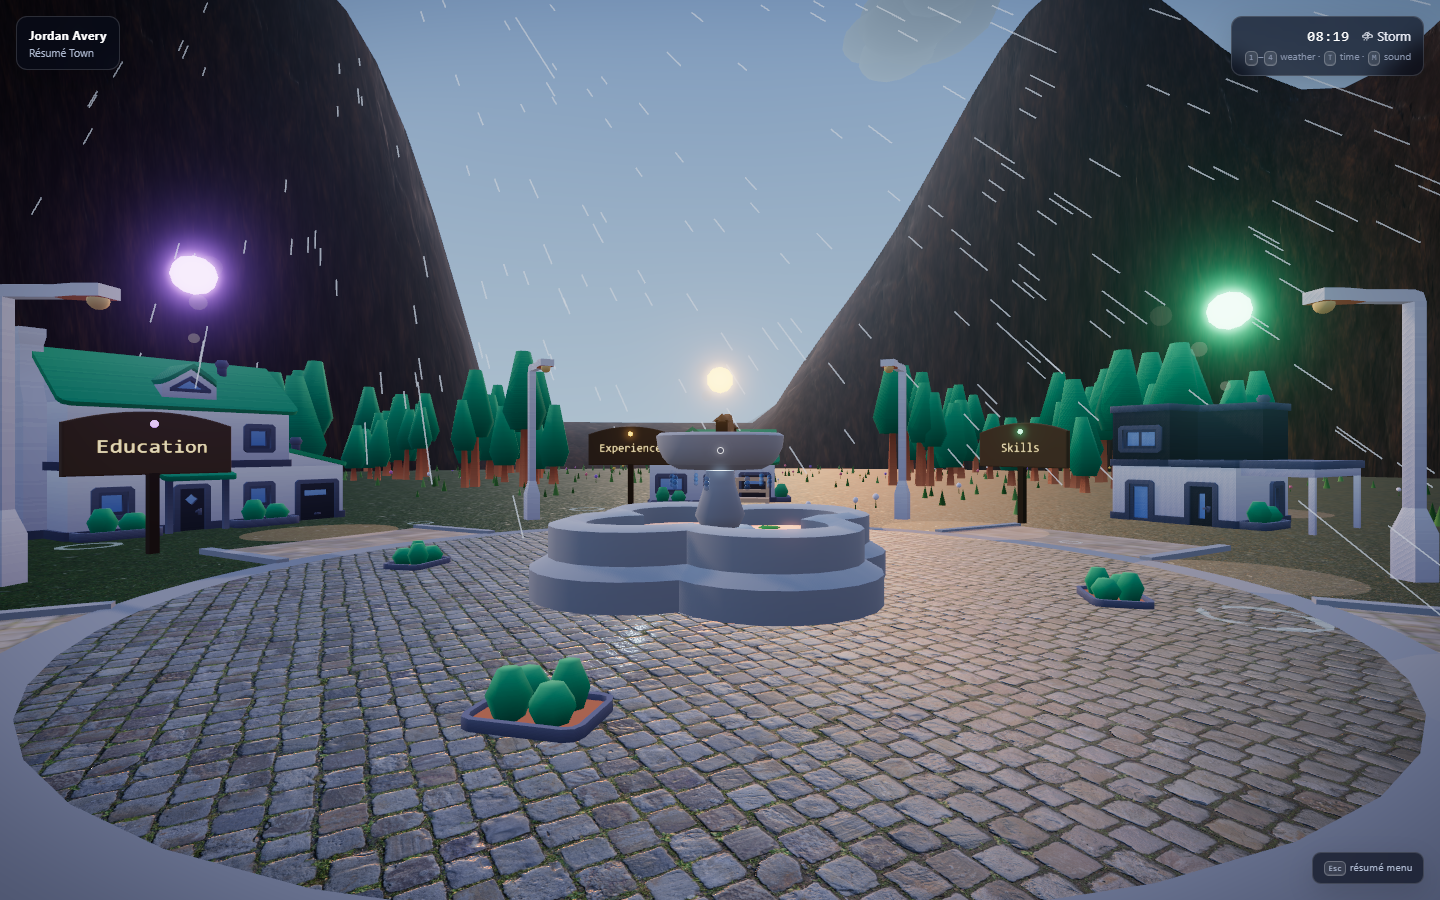
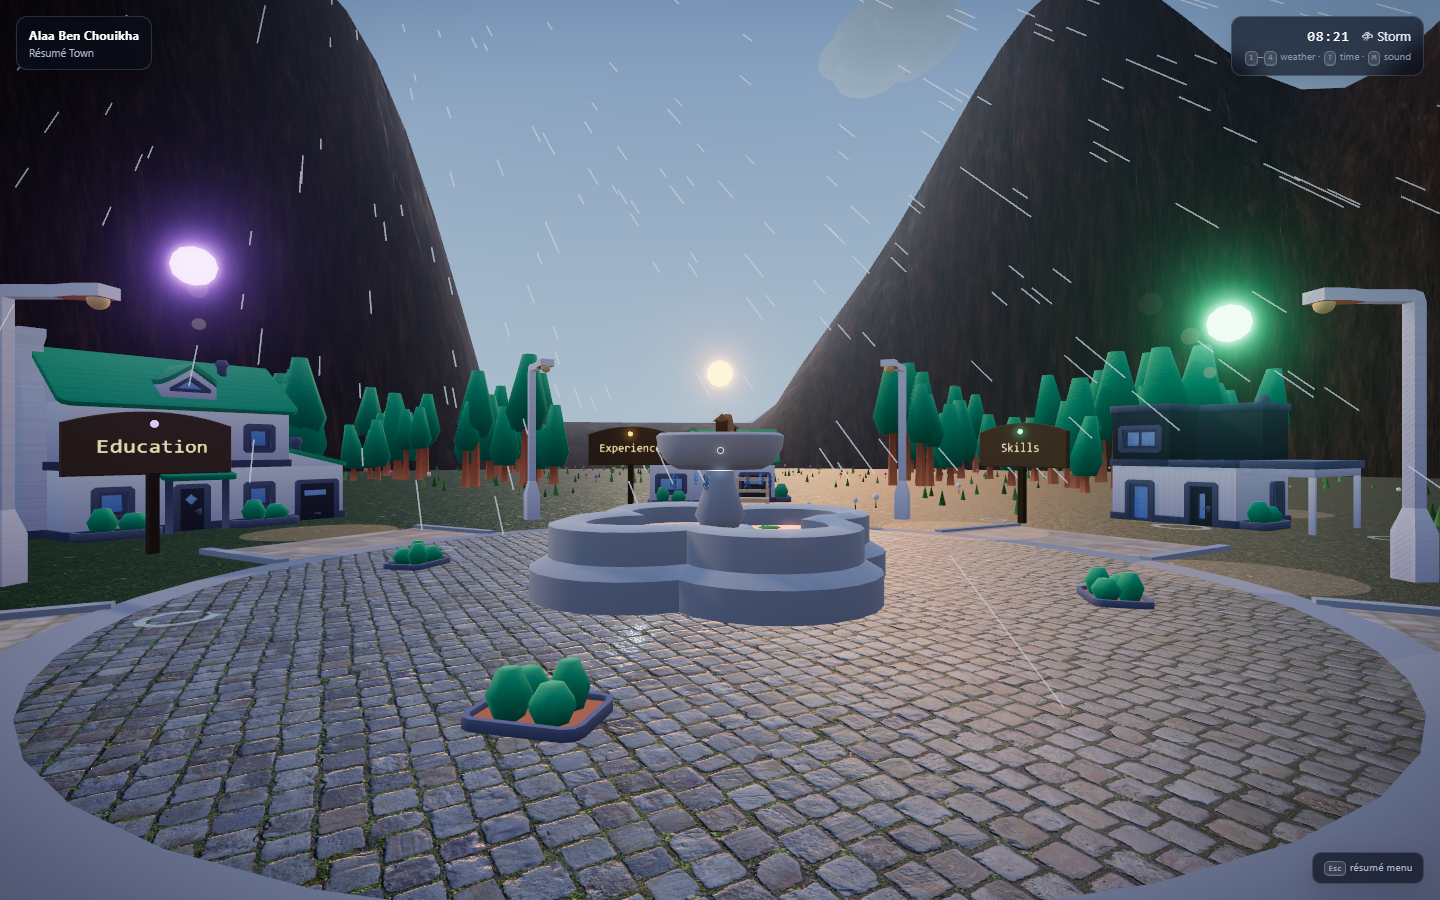
Phase 7: real résumé content (Alaa Ben Chouikha)
Replace the fictional Jordan Avery demo in src/content.ts with real data:
About, Education (FST + Baccalaureate + Certifications), Experience (SMI,
Tunisair, Dione Protocol, Smart Team), Skills (Java/Spring/Oracle, AI,
networking), Projects (Huda AI, AI Maze, Lung Disease, Ecology Sim), Contact.
Realign interactive furniture labels to the new entries; update the verify
harness assertions and the README. (Town name still placeholder 'Alaaville'.)

diff --git a/src/content.ts b/src/content.ts
@@ -38,10 +38,10 @@ export interface DecorItemDef {
   noCollide?: boolean;
 }
 
-export const PLAYER_NAME = "Jordan Avery";
-export const PLAYER_ROLE = "Full-Stack Developer";
-export const TOWN_NAME = `${PLAYER_NAME.split(" ")[0]}ville`;
-export const PROFILE_NOTE = "Interactive demo profile";
+export const PLAYER_NAME = "Alaa Ben Chouikha";
+export const PLAYER_ROLE = "Software Developer";
+export const TOWN_NAME = "Alaaville"; // TODO: swap for the custom town name once chosen
+export const PROFILE_NOTE = "Software Developer @ SMI · Creator of Huda AI";
 export const WORLD_FONT = "/fonts/kenpixel.ttf";
 
 export const buildings: BuildingDef[] = [
@@ -104,9 +104,9 @@ export const buildings: BuildingDef[] = [
 export const aboutContent = {
   heading: "About Me",
   paragraphs: [
-    `Hi, I'm ${PLAYER_NAME} — a ${PLAYER_ROLE.toLowerCase()} who loves turning complex problems into clean, playful experiences.`,
-    "I build thoughtful web products across the stack, from resilient APIs and data models to expressive, accessible interfaces.",
-    "I care about systems that are easy to understand, products that feel good to use, and teams that leave codebases better than they found them.",
+    `Hi, I'm ${PLAYER_NAME} — a software developer at SMI (Société Le Monde Informatique) in Tunis, and the creator of Huda AI, an Islamic AI-powered Q&A platform.`,
+    "By day I build business-oriented banking solutions with Java, Spring Boot, Oracle and microservices; by night I build AI and full-stack projects with React, Angular, Node.js, TensorFlow and PyTorch.",
+    "I care about clean, scalable systems, practical applications that solve real problems, and software that's genuinely a pleasure to use.",
   ],
 };
 
@@ -114,16 +114,23 @@ export const educationContent = {
   heading: "Education",
   entries: [
     {
-      school: "Northbridge University",
-      degree: "B.Sc. in Computer Science",
-      period: "2016 — 2020",
-      details: "Focused on distributed systems, human-computer interaction, and practical software engineering.",
+      school: "Faculty of Sciences of Tunis (FST)",
+      degree: "Bachelor's in Information & Communication Technology",
+      period: "2022 — 2024",
+      details: "ICT fundamentals across software engineering, databases, networks and systems.",
     },
     {
-      school: "Cloud Guild",
-      degree: "Professional Certificate in Cloud Architecture",
-      period: "2021",
-      details: "Designed secure, observable cloud systems with an emphasis on reliability and sensible cost controls.",
+      school: "Lycée Pilote Radhiâ Haddad, El Omrane",
+      degree: "Baccalaureate in Computer Science",
+      period: "2022",
+      details: "Secondary diploma specializing in computer science.",
+    },
+    {
+      school: "Certifications",
+      degree: "AI, Machine Learning & Deep Learning",
+      period: "2023 — 2024",
+      details:
+        "Generative AI & LLMs (Alison), AI x Web3 (Dione Protocol), Machine Learning with Python, Deep Learning & NLP, and problem solving / algorithms.",
     },
   ],
 };
@@ -132,22 +139,41 @@ export const experienceContent = {
   heading: "Experience",
   entries: [
     {
-      role: "Senior Software Engineer",
-      company: "Orbit Labs",
-      period: "2022 — Present",
+      role: "Software Developer",
+      company: "SMI — Société Le Monde Informatique, Tunis",
+      period: "May 2025 — Present",
       bullets: [
-        "Led delivery of a real-time collaboration workspace used across customer operations teams.",
-        "Cut deployment recovery time by simplifying release automation and production observability.",
-        "Mentored engineers and introduced lightweight architecture reviews for high-impact changes.",
+        "Develop backend services for banking software with Java and Spring Boot.",
+        "Work with Oracle databases, SQL and PL/SQL, and build and consume REST APIs.",
+        "Contribute to microservice-based architecture, banking workflows and business rules.",
+        "Improve system reliability, maintainability and business traceability.",
       ],
     },
     {
-      role: "Software Engineer",
-      company: "Northstar Studio",
-      period: "2020 — 2022",
+      role: "Development & Networking Intern",
+      company: "Tunisair, Tunis",
+      period: "Jul — Aug 2024",
       bullets: [
-        "Built and shipped customer-facing features from discovery through production support.",
-        "Partnered with design and product to turn ambiguous ideas into focused, testable releases.",
+        "Built a web app for remote Ethernet port configuration.",
+        "Applied CCNA principles to network configuration and system communication.",
+      ],
+    },
+    {
+      role: "AI & Web3 Workshop",
+      company: "Dione Protocol, Tunis",
+      period: "Jun — Jul 2024",
+      bullets: [
+        "Worked on energy disaggregation using TensorFlow and AI models.",
+        "Explored real-world applications of artificial intelligence and Web3.",
+      ],
+    },
+    {
+      role: "Web Development Intern",
+      company: "Smart Team, Tunis",
+      period: "Jun — Aug 2023",
+      bullets: [
+        "Built web projects with React, Angular and Node.js.",
+        "Strengthened both frontend and backend development skills.",
       ],
     },
   ],
@@ -156,10 +182,11 @@ export const experienceContent = {
 export const skillsContent = {
   heading: "Skills",
   groups: [
-    { category: "Languages", items: ["TypeScript", "JavaScript", "Python", "Go"] },
-    { category: "Frontend", items: ["React", "Three.js", "React Three Fiber", "CSS"] },
-    { category: "Backend", items: ["Node.js", "PostgreSQL", "REST / GraphQL APIs"] },
-    { category: "Tools", items: ["Git", "Docker", "CI/CD", "AWS"] },
+    { category: "Languages", items: ["Java", "JavaScript", "TypeScript", "Python", "SQL / PL-SQL"] },
+    { category: "Frontend", items: ["React", "Angular", "Node.js", "HTML", "CSS"] },
+    { category: "Backend & Databases", items: ["Spring Boot", "JPA / Hibernate", "Oracle", "REST APIs", "Microservices"] },
+    { category: "Artificial Intelligence", items: ["TensorFlow", "PyTorch", "Keras", "NLP", "Reinforcement Learning"] },
+    { category: "Networking", items: ["CCNA", "Network Configuration"] },
   ],
 };
 
@@ -167,32 +194,38 @@ export const projectsContent = {
   heading: "Projects",
   entries: [
     {
-      name: "This 3D Resume",
+      name: "Huda AI — Islamic Q&A Platform",
       description:
-        "An explorable low-poly town built with React Three Fiber — you're standing in it right now.",
-      link: "#",
+        "A full-stack web platform I created and deployed where users ask questions about Islam and receive AI-powered answers through a clean, accessible interface.",
+      link: "https://hudaaai.com/",
     },
     {
-      name: "Relay Dashboard",
-      description: "A live operations dashboard that turns noisy service events into clear, actionable incident timelines.",
-      link: "#",
+      name: "AI Maze (Reinforcement Learning)",
+      description: "A reinforcement-learning agent that learns to solve maze environments through training and decision-making.",
+      link: "https://github.com/AlainBx20/AI-Maze",
     },
     {
-      name: "Fieldnote",
-      description: "An offline-first research notebook for capturing structured observations and syncing them safely later.",
-      link: "#",
+      name: "Lung Disease Classification",
+      description: "A machine-learning / deep-learning project that classifies lung diseases from medical data.",
+      link: "https://github.com/AlainBx20/Lung-Disease-Classification",
+    },
+    {
+      name: "Ecology Simulation (AI Agent)",
+      description: "An AI-based ecological simulation focused on intelligent agent behavior and environmental modeling.",
+      link: "https://github.com/AlainBx20/Ecology-Simulation",
     },
   ],
 };
 
 export const contactContent = {
   heading: "Contact",
-  email: "hello@jordanavery.dev",
+  email: "alaachuikhaa@gmail.com",
   links: [
-    { label: "GitHub", url: "https://github.com/jordanavery" },
-    { label: "LinkedIn", url: "https://linkedin.com/in/jordanavery" },
+    { label: "GitHub", url: "https://github.com/AlainBx20" },
+    { label: "Huda AI", url: "https://hudaaai.com/" },
   ],
-  blurb: "Have an interesting product problem, a role to discuss, or simply want to compare notes? I’d love to hear from you.",
+  blurb:
+    "Have an interesting product problem, a banking or AI project, a role to discuss, or simply want to compare notes? I'd love to hear from you.",
 };
 
 // Furniture layout for each house's interior. One entry = one walk-up-and-
@@ -208,23 +241,23 @@ export const interiorLayouts: Record<SectionId, FurnitureItemDef[]> = {
     { model: `${FURN}radio.glb`, position: [-2.9, 0.65, -3.35], label: "What I Care About" },
   ],
   education: [
-    { model: `${FURN}desk.glb`, position: [-2.5, 0, -3], label: "Northbridge University" },
-    { model: `${FURN}bookcaseClosedWide.glb`, position: [2.5, 0, -3.3], rotationY: Math.PI, label: "Cloud Guild" },
+    { model: `${FURN}desk.glb`, position: [-2.5, 0, -3], label: "Bachelor's — ICT" },
+    { model: `${FURN}bookcaseClosedWide.glb`, position: [2.5, 0, -3.3], rotationY: Math.PI, label: "Baccalaureate" },
   ],
   experience: [
-    { model: `${FURN}desk.glb`, position: [-2.5, 0, -3], label: "Senior Software Engineer" },
-    { model: `${FURN}sideTableDrawers.glb`, position: [2.8, 0, -3], label: "Software Engineer" },
+    { model: `${FURN}desk.glb`, position: [-2.5, 0, -3], label: "Software Developer — SMI" },
+    { model: `${FURN}sideTableDrawers.glb`, position: [2.8, 0, -3], label: "Networking Intern" },
   ],
   skills: [
     { model: `${FURN}bookcaseOpenLow.glb`, position: [-3.6, 0, -3.3], rotationY: Math.PI, label: "Languages" },
     { model: `${FURN}computerScreen.glb`, position: [-1.2, 0, -3.3], rotationY: Math.PI, label: "Frontend" },
     { model: `${FURN}kitchenCabinetDrawer.glb`, position: [1.2, 0, -3.3], rotationY: Math.PI, label: "Backend" },
-    { model: `${FURN}cabinetTelevision.glb`, position: [3.6, 0, -3.3], rotationY: Math.PI, label: "Tools" },
+    { model: `${FURN}cabinetTelevision.glb`, position: [3.6, 0, -3.3], rotationY: Math.PI, label: "AI" },
   ],
   projects: [
-    { model: `${FURN}tableCoffee.glb`, position: [-3, 0, -2.8], label: "This 3D Resume" },
-    { model: `${FURN}tableRound.glb`, position: [0, 0, -3.2], label: "Relay Dashboard" },
-    { model: `${FURN}tableGlass.glb`, position: [3, 0, -2.8], label: "Fieldnote" },
+    { model: `${FURN}tableCoffee.glb`, position: [-3, 0, -2.8], label: "Huda AI" },
+    { model: `${FURN}tableRound.glb`, position: [0, 0, -3.2], label: "AI Maze" },
+    { model: `${FURN}tableGlass.glb`, position: [3, 0, -2.8], label: "Lung Disease ML" },
   ],
   contact: [{ model: `${FURN}desk.glb`, position: [0, 0, -3], label: "Get In Touch" }],
 };

diff --git a/README.md b/README.md
@@ -64,10 +64,11 @@ keyboard, on small screens, and when pointer lock is unavailable.
 
 ## Making it yours
 
-The included Jordan Avery profile is a polished fictional demo. Edit
-**`src/content.ts`** — it holds every name, section, and piece of résumé
-text, plus which furniture props appear inside each building. Nothing else
-needs to change.
+The site is populated with Alaa Ben Chouikha's résumé. Everything lives in
+**`src/content.ts`** — every name, section, and piece of résumé text, plus
+which furniture props appear inside each building, and the label on each
+interactive prop (labels map 1:1 by index to the matching content entries).
+Nothing else needs to change to make it yours.
 
 Tuning knobs live in:
 
